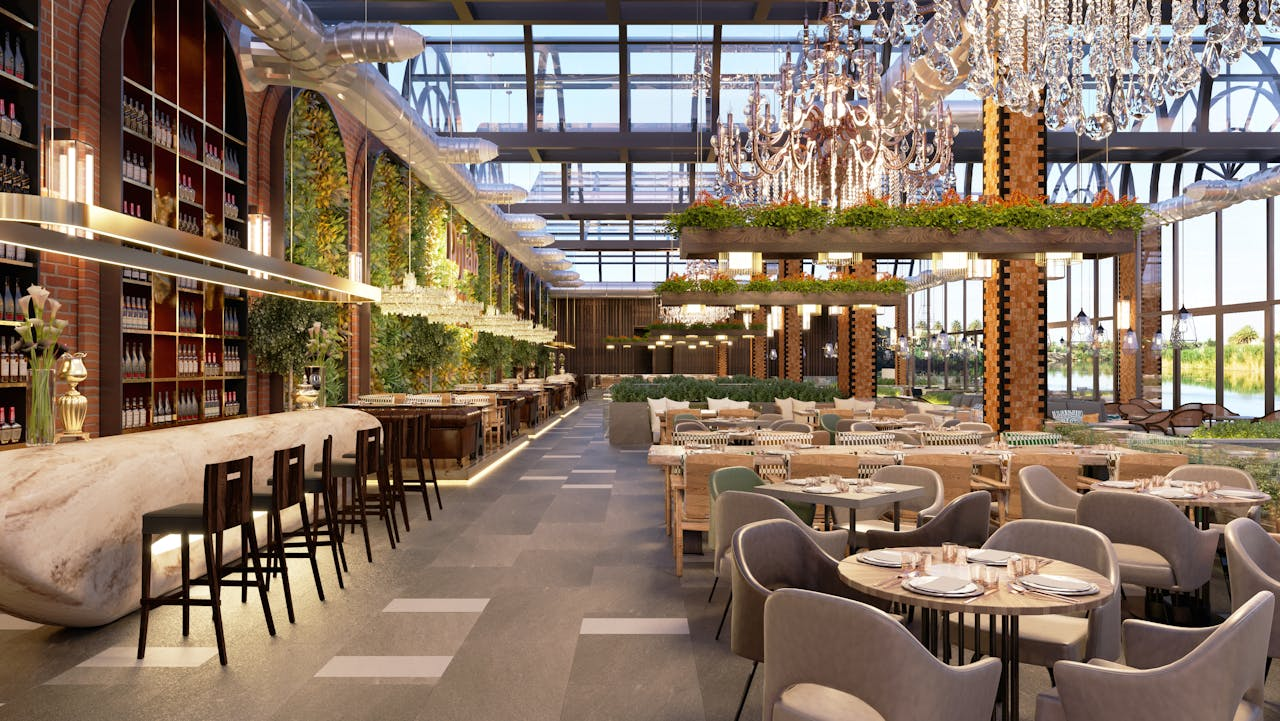
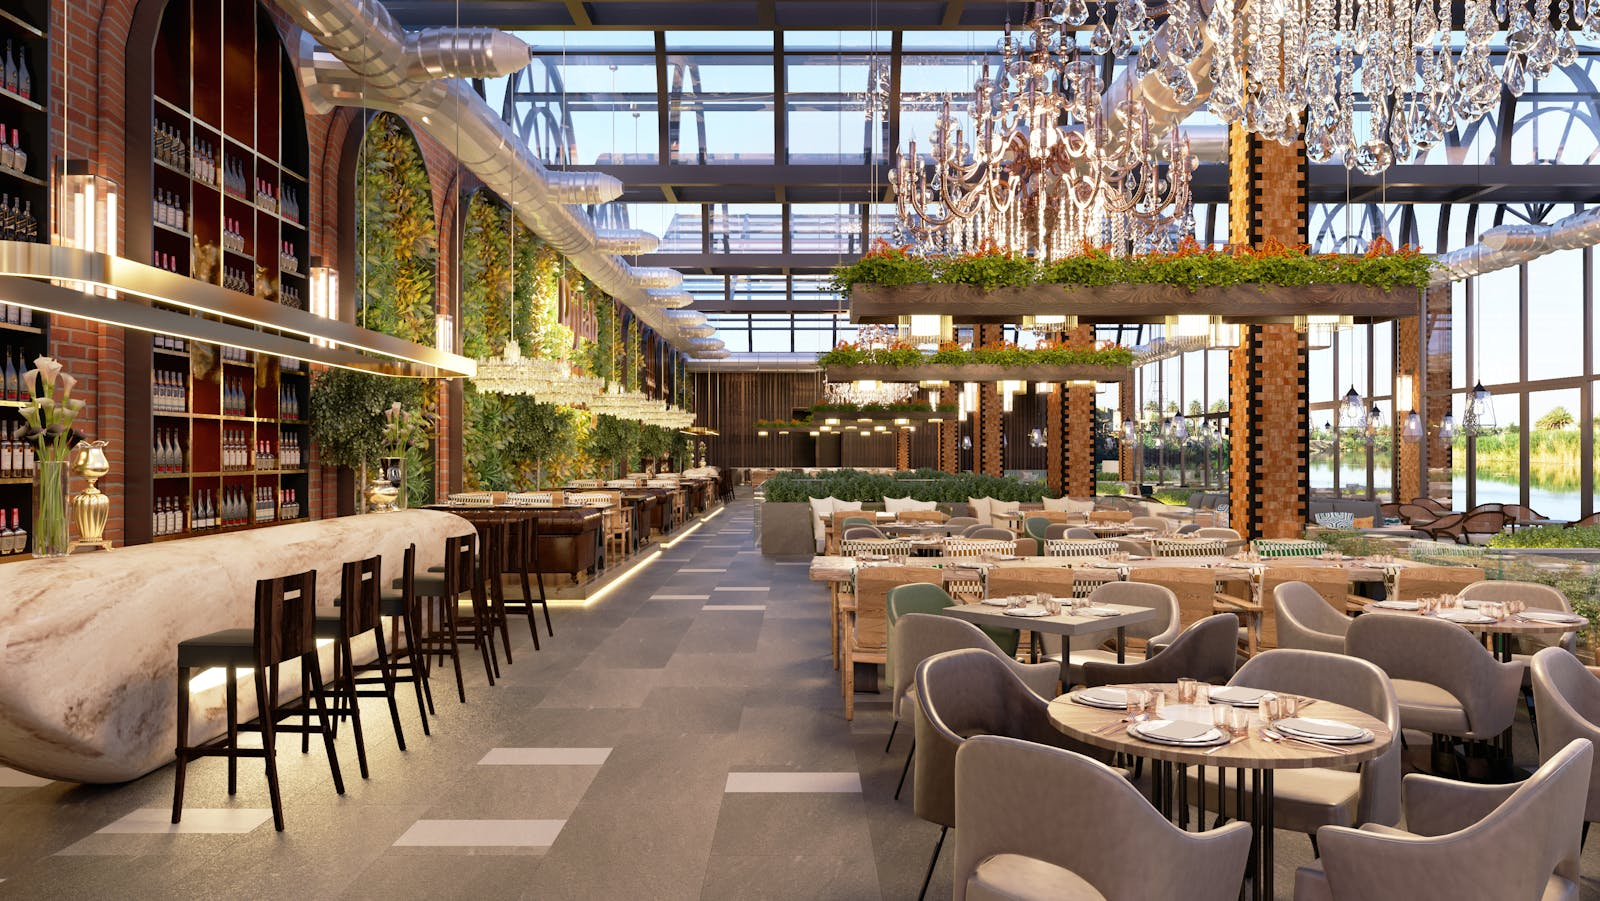
Hero: Trust Fund + Savannah Grill; PNG branding; new restaurant photo

diff --git a/components/FeaturedProjectsHome.tsx b/components/FeaturedProjectsHome.tsx
@@ -10,7 +10,8 @@ export function FeaturedProjectsHome() {
 
   if (!featured) return null
 
-  const featuredDomain = featured.url?.replace(/^https?:\/\//, '').replace(/\/$/, '')
+  const featuredDomain =
+    featured.url?.replace(/^https?:\/\//, '').replace(/\/$/, '') ?? featured.displayDomain
 
   return (
     <div className="space-y-8">
@@ -27,22 +28,29 @@ export function FeaturedProjectsHome() {
           />
         </div>
         <div className="flex flex-col justify-center p-6 lg:p-10">
-          <span className="mb-3 inline-flex w-fit items-center gap-2 rounded-full border border-logo/30 bg-logo/10 px-3 py-1 text-xs font-bold uppercase tracking-wider text-primary">
-            <span className="h-1.5 w-1.5 rounded-full bg-logo" />
-            Featured build
+          <span className="mb-3 inline-flex w-fit flex-wrap items-center gap-2">
+            <span className="inline-flex items-center gap-2 rounded-full border border-logo/30 bg-logo/10 px-3 py-1 text-xs font-bold uppercase tracking-wider text-primary">
+              <span className="h-1.5 w-1.5 rounded-full bg-logo" />
+              Featured build
+            </span>
+            {featured.concept && (
+              <span className="rounded-full border border-amber-200 bg-amber-50 px-3 py-1 text-xs font-bold uppercase tracking-wider text-amber-800">
+                Concept
+              </span>
+            )}
           </span>
           <h3 className="text-2xl font-extrabold text-brand-text sm:text-3xl">{featured.name}</h3>
           <p className="mt-1 text-sm font-semibold text-logo">{featured.clientType}</p>
-          {featured.url && (
-            <a
-              href={featured.url}
-              target="_blank"
-              rel="noopener noreferrer"
-              className="mt-2 inline-flex items-center gap-1.5 text-sm text-brand-muted hover:text-primary"
-            >
-              <Globe className="h-4 w-4" />
+          {featuredDomain && (
+            <p className="mt-2 inline-flex items-center gap-1.5 text-sm text-brand-muted">
+              <Globe className="h-4 w-4 shrink-0" />
               {featuredDomain}
-            </a>
+              {featured.concept && (
+                <span className="rounded-md bg-amber-50 px-1.5 py-0.5 text-[10px] font-bold uppercase text-amber-800">
+                  Concept
+                </span>
+              )}
+            </p>
           )}
           <p className="mt-4 leading-relaxed text-brand-muted">{featured.description}</p>
           <div className="mt-5 flex flex-wrap gap-2">
@@ -55,7 +63,7 @@ export function FeaturedProjectsHome() {
               </span>
             ))}
           </div>
-          {featured.url && !featured.url.includes('globenet.dev') ? (
+          {featured.url && !featured.concept ? (
             <a
               href={featured.url}
               target="_blank"
@@ -69,7 +77,8 @@ export function FeaturedProjectsHome() {
               href="/contact"
               className="mt-6 inline-flex items-center gap-2 font-bold text-primary"
             >
-              Start a similar project <ArrowRight className="h-4 w-4" />
+              {featured.concept ? 'Build my restaurant site' : 'Start a similar project'}{' '}
+              <ArrowRight className="h-4 w-4" />
             </Link>
           )}
         </div>
@@ -77,7 +86,8 @@ export function FeaturedProjectsHome() {
 
       <div className="grid gap-6 md:grid-cols-2">
         {rest.map((project, i) => {
-          const domain = project.url?.replace(/^https?:\/\//, '').replace(/\/$/, '')
+          const domain =
+            project.url?.replace(/^https?:\/\//, '').replace(/\/$/, '') ?? project.displayDomain
           return (
             <article
               key={project.id}
@@ -97,8 +107,13 @@ export function FeaturedProjectsHome() {
               <div className="p-5 sm:p-6">
                 <h3 className="font-bold text-brand-text">{project.name}</h3>
                 <p className="mt-1 text-xs font-semibold text-logo">{project.clientType}</p>
+                {project.concept && (
+                  <span className="mt-2 inline-block rounded-full bg-amber-50 px-2 py-0.5 text-[10px] font-bold uppercase text-amber-800">
+                    Concept build
+                  </span>
+                )}
                 <p className="mt-2 line-clamp-2 text-sm text-brand-muted">{project.description}</p>
-                {project.url && !project.url.includes('globenet.dev') ? (
+                {project.url && !project.concept ? (
                   <a
                     href={project.url}
                     target="_blank"

diff --git a/components/ProjectCard.tsx b/components/ProjectCard.tsx
@@ -14,7 +14,8 @@ type ProjectCardProps = {
 
 export function ProjectCard({ project, detailed = false }: ProjectCardProps) {
   const [expanded, setExpanded] = useState(detailed)
-  const domain = project.url?.replace(/^https?:\/\//, '').replace(/\/$/, '')
+  const domain =
+    project.url?.replace(/^https?:\/\//, '').replace(/\/$/, '') ?? project.displayDomain
 
   return (
     <motion.article
@@ -35,17 +36,26 @@ export function ProjectCard({ project, detailed = false }: ProjectCardProps) {
           </span>
         </div>
 
-        {project.url && (
-          <a
-            href={project.url}
-            target="_blank"
-            rel="noopener noreferrer"
-            className="mb-4 inline-flex items-center gap-2 text-sm font-medium text-logo hover:text-primary"
-          >
+        {domain && (
+          <p className="mb-4 inline-flex flex-wrap items-center gap-2 text-sm font-medium text-logo">
             <Globe className="h-4 w-4 shrink-0" />
             {domain}
-            <ExternalLink className="h-3.5 w-3.5" />
-          </a>
+            {project.concept ? (
+              <span className="rounded-full bg-amber-50 px-2 py-0.5 text-[10px] font-bold uppercase text-amber-800">
+                Concept
+              </span>
+            ) : project.url ? (
+              <a
+                href={project.url}
+                target="_blank"
+                rel="noopener noreferrer"
+                className="inline-flex items-center gap-1 text-primary hover:text-primary-dark"
+                aria-label={`Visit ${domain}`}
+              >
+                <ExternalLink className="h-3.5 w-3.5" />
+              </a>
+            ) : null}
+          </p>
         )}
 
         <p className="mb-4 text-brand-muted leading-relaxed">{project.description}</p>
@@ -106,7 +116,7 @@ export function ProjectCard({ project, detailed = false }: ProjectCardProps) {
           </div>
         )}
 
-        {project.url && !project.url.includes('globenet.dev/contact') ? (
+        {project.url && !project.concept ? (
           <a
             href={project.url}
             target="_blank"

diff --git a/components/HeroVisual.tsx b/components/HeroVisual.tsx
@@ -5,7 +5,7 @@ import { BrowserMockup } from './BrowserMockup'
 import { featuredHomeProjects } from '@/lib/projects'
 
 const trustfund = featuredHomeProjects.find((p) => p.id === 'trustfund')
-const globedispatch = featuredHomeProjects.find((p) => p.id === 'globedispatch')
+const savannah = featuredHomeProjects.find((p) => p.id === 'savannah-grill')
 
 export function HeroVisual() {
   return (
@@ -25,23 +25,22 @@ export function HeroVisual() {
           />
         </motion.div>
       )}
-      {globedispatch && (
+      {savannah && (
         <motion.div
           animate={{ y: [0, -6, 0] }}
           transition={{ duration: 4, repeat: Infinity, ease: 'easeInOut', delay: 0.5 }}
           className="absolute -bottom-6 -left-4 hidden w-[55%] rotate-[-4deg] shadow-xl sm:block lg:-left-8"
         >
           <BrowserMockup
-            url={globedispatch.url}
-            domain="globedispatch.org"
-            imageSrc={globedispatch.thumbnail}
-            imageAlt="Globe Dispatch — logistics website by Globenet"
+            domain={savannah.displayDomain ?? 'savannahgrill.ng'}
+            imageSrc={savannah.thumbnail}
+            imageAlt="Savannah Grill — restaurant website concept by Globenet"
           />
         </motion.div>
       )}
       <div className="absolute -right-2 top-8 hidden rounded-xl border border-brand-border bg-brand-surface px-4 py-3 shadow-lg lg:block">
         <p className="text-xs font-semibold uppercase tracking-wider text-brand-muted">Client projects</p>
-        <p className="text-sm font-bold text-primary">International clients</p>
+        <p className="text-sm font-bold text-primary">International & local brands</p>
       </div>
     </div>
   )

diff --git a/app/layout.tsx b/app/layout.tsx
@@ -18,11 +18,8 @@ export const metadata: Metadata = {
   ...pageMetadata.home,
   metadataBase: new URL(siteConfig.url),
   icons: {
-    icon: [
-      { url: '/favicon.svg', type: 'image/svg+xml' },
-      { url: '/icon-mark.png', type: 'image/png', sizes: '32x32' },
-    ],
-    apple: '/icon-mark.png',
+    icon: [{ url: '/favicon.png', type: 'image/png', sizes: '32x32' }],
+    apple: '/favicon.png',
   },
   verification: {
     // Add when you have them: google: 'your-google-verification-code',
@@ -44,9 +41,8 @@ export default function RootLayout({
           crossOrigin="anonymous"
         />
         <link rel="manifest" href="/manifest.json" />
-        <link rel="icon" href="/favicon.svg" type="image/svg+xml" />
-        <link rel="icon" href="/icon-mark.png" type="image/png" sizes="32x32" />
-        <link rel="apple-touch-icon" href="/icon-mark.png" />
+        <link rel="icon" href="/favicon.png" type="image/png" sizes="32x32" />
+        <link rel="apple-touch-icon" href="/favicon.png" />
       </head>
       <body className="min-h-screen flex flex-col">
         <RootStructuredData />

diff --git a/lib/projects.ts b/lib/projects.ts
@@ -5,6 +5,10 @@ export type Project = {
   name: string
   clientType: string
   url?: string
+  /** Shown in browser mockups when there is no live URL */
+  displayDomain?: string
+  /** Portfolio concept — not a live client site */
+  concept?: boolean
   description: string
   howBuilt: string
   workDelivered: string[]
@@ -58,8 +62,9 @@ export const projects: Project[] = [
   {
     id: 'savannah-grill',
     name: 'Savannah Grill — Restaurant & Online Orders',
-    clientType: 'Food & Beverage',
-    url: 'https://www.globenet.dev/contact',
+    clientType: 'Food & Beverage · Concept',
+    displayDomain: 'savannahgrill.ng',
+    concept: true,
     description:
       'Full-service restaurant website concept for a modern dining brand — digital menu, table reservations, and WhatsApp ordering for local and delivery customers.',
     howBuilt:

diff --git a/components/Logo.tsx b/components/Logo.tsx
@@ -26,7 +26,7 @@ export function Logo({
         aria-label="Globenet home"
       >
         <Image
-          src="/icon-mark.png"
+          src="/favicon.png"
           alt=""
           width={48}
           height={48}

diff --git a/lib/structured-data.ts b/lib/structured-data.ts
@@ -17,7 +17,7 @@ export function localBusinessJsonLd() {
     telephone: siteConfig.phoneRaw,
     email: siteConfig.email,
     image: `${SITE_URL}/logo.png`,
-    logo: `${SITE_URL}/icon-mark.png`,
+    logo: `${SITE_URL}/favicon.png`,
     priceRange: '₦₦',
     address: {
       '@type': 'PostalAddress',